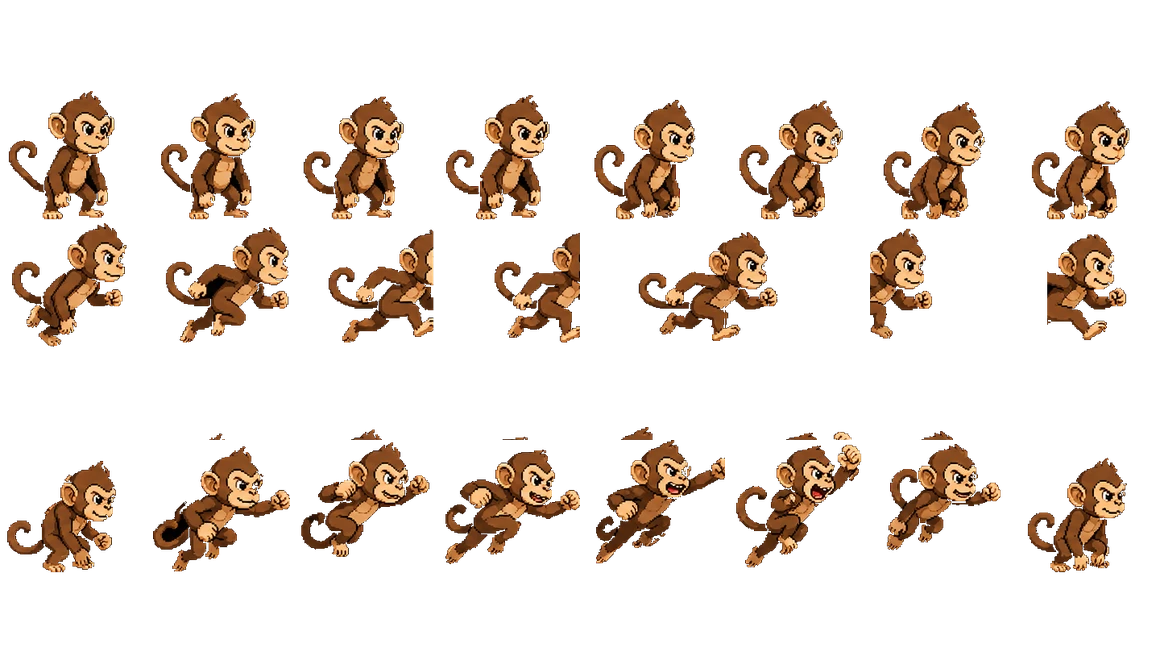
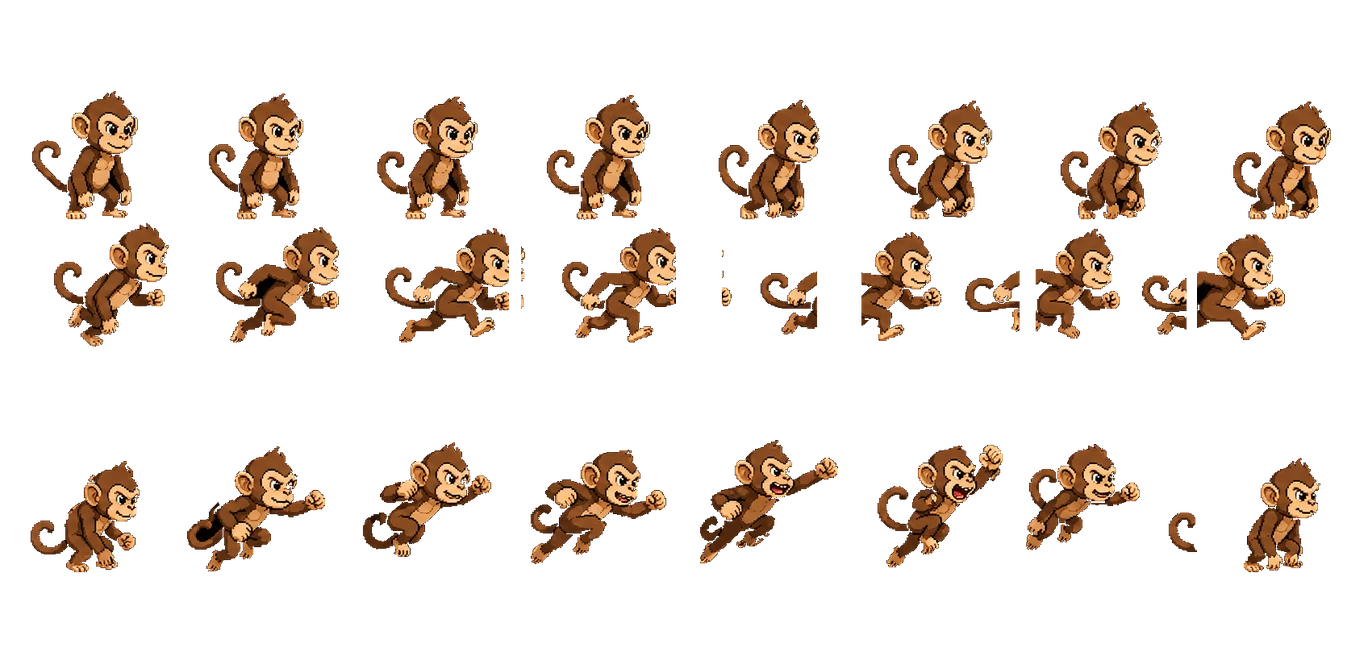
feat(zoo): 시곗바늘 HUD, 최소 관람객 1명, 잘리지 않은 동물 시트
- 동물 시트를 새 추출 방식으로 다시 뽑았다. 악어 꼬리와 제비 꽁지, 호랑이 꼬리가
  온전하고 이웃 조각도 섞이지 않는다
- 동물이 있는 우리에는 최소 한 명이 온다. 밤 배율이 0.15 라 명성이 낮으면
  반올림해서 0 이 되고, 그러면 그 시간대에는 수입이 통째로 끊겼다.
  하루의 3분의 1 을 아무 일도 없는 시간으로 두면 화면을 볼 이유가 없어진다
- HUD 시각을 숫자에서 시곗바늘로 바꿨다. 숫자는 읽어서 해석해야 하지만
  바늘은 한눈에 지금이 어디쯤인지 보여 준다. 12시간 시계가 아니라 한 바퀴가 곧 하루다

시계는 지금 캔버스로 그린다. GUI 시트에 문자판이 들어오면 배경만 그 스프라이트로
바꾸면 된다 — 바늘은 그대로 얹는다.

diff --git a/src/assets/animalSheets.ts b/src/assets/animalSheets.ts
@@ -38,26 +38,26 @@ export interface AnimalSheetAsset {
 }
 
 export const ANIMAL_SHEETS: readonly AnimalSheetAsset[] = [
-  { id: 'ALIGATOR', habitat: 'WATER', src: sheet0, fit: 0.3429, baseline: 1.0, frameW: 180, frameH: 210 },
-  { id: 'BELUGA', habitat: 'WATER', src: sheet1, fit: 0.2989, baseline: 1.0, frameW: 146, frameH: 220 },
-  { id: 'MARLIN', habitat: 'WATER', src: sheet2, fit: 0.4626, baseline: 1.0, frameW: 174, frameH: 220 },
-  { id: 'PENGUIN', habitat: 'WATER', src: sheet3, fit: 0.4412, baseline: 1.0, frameW: 171, frameH: 204 },
-  { id: 'PIRANHA', habitat: 'WATER', src: sheet4, fit: 0.5023, baseline: 1.0, frameW: 180, frameH: 215 },
-  { id: 'SHARK', habitat: 'WATER', src: sheet5, fit: 0.5072, baseline: 1.0, frameW: 180, frameH: 207 },
-  { id: 'TURTLE', habitat: 'WATER', src: sheet6, fit: 0.4226, baseline: 1.0, frameW: 165, frameH: 220 },
-  { id: 'BEAR', habitat: 'LAND', src: sheet7, fit: 0.5792, baseline: 1.0, frameW: 165, frameH: 220 },
-  { id: 'HORSE', habitat: 'LAND', src: sheet8, fit: 0.7, baseline: 1.0, frameW: 158, frameH: 220 },
-  { id: 'MONKEY', habitat: 'LAND', src: sheet9, fit: 0.5861, baseline: 1.0, frameW: 145, frameH: 220 },
-  { id: 'ORANGUTAN', habitat: 'LAND', src: sheet10, fit: 0.6122, baseline: 1.0, frameW: 162, frameH: 220 },
-  { id: 'POLARBEAR', habitat: 'LAND', src: sheet11, fit: 0.4938, baseline: 1.0, frameW: 163, frameH: 220 },
-  { id: 'RABBIT', habitat: 'LAND', src: sheet12, fit: 0.7176, baseline: 1.0, frameW: 155, frameH: 220 },
-  { id: 'TIGGER', habitat: 'LAND', src: sheet13, fit: 0.5022, baseline: 1.0, frameW: 174, frameH: 220 },
-  { id: 'BUTTERFLY', habitat: 'SKY', src: sheet14, fit: 0.6849, baseline: 1.0, frameW: 149, frameH: 220 },
-  { id: 'CHICKEN', habitat: 'SKY', src: sheet15, fit: 0.7227, baseline: 1.0, frameW: 155, frameH: 220 },
-  { id: 'CROW', habitat: 'SKY', src: sheet16, fit: 0.8622, baseline: 1.0, frameW: 176, frameH: 220 },
-  { id: 'DRAGONFLY', habitat: 'SKY', src: sheet17, fit: 0.7514, baseline: 1.0, frameW: 176, frameH: 181 },
-  { id: 'PARROT', habitat: 'SKY', src: sheet18, fit: 0.8221, baseline: 1.0, frameW: 179, frameH: 208 },
-  { id: 'PEACOCK', habitat: 'SKY', src: sheet19, fit: 0.6667, baseline: 1.0, frameW: 150, frameH: 220 },
-  { id: 'PIGEON', habitat: 'SKY', src: sheet20, fit: 0.5914, baseline: 1.0, frameW: 137, frameH: 220 },
-  { id: 'SPAROW', habitat: 'SKY', src: sheet21, fit: 0.6653, baseline: 1.0, frameW: 151, frameH: 220 },
+  { id: 'ALIGATOR', habitat: 'WATER', src: sheet0, fit: 0.3429, baseline: 1.0, frameW: 211, frameH: 210 },
+  { id: 'BELUGA', habitat: 'WATER', src: sheet1, fit: 0.2989, baseline: 1.0, frameW: 155, frameH: 220 },
+  { id: 'MARLIN', habitat: 'WATER', src: sheet2, fit: 0.4626, baseline: 1.0, frameW: 214, frameH: 220 },
+  { id: 'PENGUIN', habitat: 'WATER', src: sheet3, fit: 0.4663, baseline: 1.0, frameW: 167, frameH: 193 },
+  { id: 'PIRANHA', habitat: 'WATER', src: sheet4, fit: 0.5023, baseline: 1.0, frameW: 214, frameH: 215 },
+  { id: 'SHARK', habitat: 'WATER', src: sheet5, fit: 0.5072, baseline: 1.0, frameW: 196, frameH: 207 },
+  { id: 'TURTLE', habitat: 'WATER', src: sheet6, fit: 0.4226, baseline: 1.0, frameW: 169, frameH: 220 },
+  { id: 'BEAR', habitat: 'LAND', src: sheet7, fit: 0.5792, baseline: 1.0, frameW: 173, frameH: 220 },
+  { id: 'HORSE', habitat: 'LAND', src: sheet8, fit: 0.7, baseline: 1.0, frameW: 260, frameH: 220 },
+  { id: 'MONKEY', habitat: 'LAND', src: sheet9, fit: 0.5861, baseline: 1.0, frameW: 171, frameH: 220 },
+  { id: 'ORANGUTAN', habitat: 'LAND', src: sheet10, fit: 0.6122, baseline: 1.0, frameW: 172, frameH: 220 },
+  { id: 'POLARBEAR', habitat: 'LAND', src: sheet11, fit: 0.4938, baseline: 1.0, frameW: 181, frameH: 220 },
+  { id: 'RABBIT', habitat: 'LAND', src: sheet12, fit: 0.7176, baseline: 1.0, frameW: 175, frameH: 220 },
+  { id: 'TIGGER', habitat: 'LAND', src: sheet13, fit: 0.5022, baseline: 1.0, frameW: 208, frameH: 220 },
+  { id: 'BUTTERFLY', habitat: 'SKY', src: sheet14, fit: 0.6849, baseline: 1.0, frameW: 142, frameH: 220 },
+  { id: 'CHICKEN', habitat: 'SKY', src: sheet15, fit: 0.7227, baseline: 1.0, frameW: 184, frameH: 220 },
+  { id: 'CROW', habitat: 'SKY', src: sheet16, fit: 0.8622, baseline: 1.0, frameW: 204, frameH: 220 },
+  { id: 'DRAGONFLY', habitat: 'SKY', src: sheet17, fit: 0.7514, baseline: 1.0, frameW: 177, frameH: 181 },
+  { id: 'PARROT', habitat: 'SKY', src: sheet18, fit: 0.8221, baseline: 1.0, frameW: 188, frameH: 208 },
+  { id: 'PEACOCK', habitat: 'SKY', src: sheet19, fit: 0.6667, baseline: 1.0, frameW: 181, frameH: 220 },
+  { id: 'PIGEON', habitat: 'SKY', src: sheet20, fit: 0.5914, baseline: 1.0, frameW: 130, frameH: 220 },
+  { id: 'SPAROW', habitat: 'SKY', src: sheet21, fit: 0.6653, baseline: 1.0, frameW: 154, frameH: 220 },
 ]

diff --git a/src/ui/components/ClockDial.tsx b/src/ui/components/ClockDial.tsx
@@ -1,0 +1,82 @@
+import { useEffect, useRef } from 'react'
+import { CLOSE_HOUR, OPEN_HOUR } from '@/domain/clock'
+import { DAY_DURATION_SEC } from '@/domain/balance'
+
+interface ClockDialProps {
+  /** 오늘 경과 초 (0 ~ DAY_DURATION_SEC). */
+  elapsed: number
+  size?: number
+}
+
+/**
+ * 시곗바늘이 도는 시계.
+ *
+ * 숫자로 `14 00` 이라고 쓰면 읽어서 해석해야 하지만, 바늘은 **한눈에 지금이 어디쯤인지**
+ * 보여 준다. 하루가 180초뿐이라 실제로 눈에 띄게 돈다는 점도 크다.
+ *
+ * 운영 시간(09~22시)만 도므로 12시간 시계가 아니라 **한 바퀴가 곧 하루**다.
+ * 문 여는 시각이 12시 방향, 거기서 시계 방향으로 한 바퀴 돌면 문을 닫는다.
+ *
+ * 지금은 캔버스로 그린다. GUI 시트에 시계 문자판이 들어오면
+ * 이 컴포넌트의 배경만 그 스프라이트로 바꾸면 된다 — 바늘은 그대로 얹는다.
+ */
+export function ClockDial({ elapsed, size = 46 }: ClockDialProps) {
+  const canvasRef = useRef<HTMLCanvasElement>(null)
+
+  useEffect(() => {
+    const canvas = canvasRef.current
+    if (!canvas) return
+    const dpr = window.devicePixelRatio || 1
+    canvas.width = size * dpr
+    canvas.height = size * dpr
+    const ctx = canvas.getContext('2d')
+    if (!ctx) return
+
+    ctx.setTransform(dpr, 0, 0, dpr, 0, 0)
+    ctx.clearRect(0, 0, size, size)
+
+    const r = size / 2
+    const face = r * 0.86
+
+    // 문자판
+    ctx.beginPath()
+    ctx.arc(r, r, face, 0, Math.PI * 2)
+    ctx.fillStyle = '#f4e6c4'
+    ctx.fill()
+    ctx.lineWidth = Math.max(2, size * 0.055)
+    ctx.strokeStyle = '#8a5a2b'
+    ctx.stroke()
+
+    // 눈금. 운영 시간을 시간마다 하나씩 찍는다.
+    const hours = CLOSE_HOUR - OPEN_HOUR
+    ctx.strokeStyle = 'rgba(138, 90, 43, 0.55)'
+    ctx.lineWidth = Math.max(1, size * 0.03)
+    for (let i = 0; i < hours; i++) {
+      const angle = (i / hours) * Math.PI * 2 - Math.PI / 2
+      const inner = face * (i % 3 === 0 ? 0.7 : 0.82)
+      ctx.beginPath()
+      ctx.moveTo(r + Math.cos(angle) * inner, r + Math.sin(angle) * inner)
+      ctx.lineTo(r + Math.cos(angle) * face * 0.94, r + Math.sin(angle) * face * 0.94)
+      ctx.stroke()
+    }
+
+    // 바늘. 하루가 한 바퀴다.
+    const progress = Math.min(1, Math.max(0, elapsed / DAY_DURATION_SEC))
+    const angle = progress * Math.PI * 2 - Math.PI / 2
+
+    ctx.strokeStyle = '#7a2f22'
+    ctx.lineWidth = Math.max(2, size * 0.075)
+    ctx.lineCap = 'round'
+    ctx.beginPath()
+    ctx.moveTo(r, r)
+    ctx.lineTo(r + Math.cos(angle) * face * 0.66, r + Math.sin(angle) * face * 0.66)
+    ctx.stroke()
+
+    ctx.beginPath()
+    ctx.arc(r, r, Math.max(1.5, size * 0.055), 0, Math.PI * 2)
+    ctx.fillStyle = '#7a2f22'
+    ctx.fill()
+  }, [elapsed, size])
+
+  return <canvas ref={canvasRef} className="clock-dial" style={{ width: size, height: size }} />
+}

diff --git a/src/ui/screens/ZooScreen.tsx b/src/ui/screens/ZooScreen.tsx
@@ -7,7 +7,7 @@ import {
 import { audio } from '@/audio/AudioManager'
 import { startTicker } from '@/core/ticker'
 import { MAX_ANIMALS_PER_ENCLOSURE, UNLOCK_COST } from '@/domain/balance'
-import { clockLabel, phaseOf } from '@/domain/clock'
+import { phaseOf } from '@/domain/clock'
 import { ENCLOSURE_ORDER, ENCLOSURES } from '@/domain/enclosure'
 import { SceneRenderer, type EnclosureTransition } from '@/render/SceneRenderer'
 import {
@@ -19,6 +19,7 @@ import { canPlaceProp, storedProps, type OwnedProp } from '@/domain/prop'
 import { AnimalItemThumb, PropItemThumb } from '@/ui/components/ItemThumb'
 import { BarButton } from '@/ui/components/BarButton'
 import { BitmapLabel } from '@/ui/components/BitmapLabel'
+import { ClockDial } from '@/ui/components/ClockDial'
 import { IconButton } from '@/ui/components/IconButton'
 import { IconGlyph } from '@/ui/components/IconGlyph'
 import { AnimalCard } from '@/ui/panels/AnimalCard'
@@ -386,7 +387,6 @@ export function ZooScreen({ detail }: ZooScreenProps) {
     placeAnimal(state.item.animal.id, enclosure)
   }
 
-  const time = clockLabel(elapsed)
   const here = animals.filter((a) => a.status === 'PLACED' && a.enclosureId === enclosure).length
   const canPan = detail && tool === 'PAN'
 
@@ -445,7 +445,8 @@ export function ZooScreen({ detail }: ZooScreenProps) {
                 ) : (
                   <>
                     <BitmapLabel text={`DAY ${day}`} size={34} />
-                    <BitmapLabel text={`${time.hh} ${time.mm}`} size={34} />
+                    {/* 숫자는 읽어서 해석해야 하지만 바늘은 한눈에 지금이 어디쯤인지 보여 준다. */}
+                    <ClockDial elapsed={elapsed} size={46} />
                   </>
                 )}
               </div>

diff --git a/src/domain/economy.ts b/src/domain/economy.ts
@@ -4,14 +4,21 @@ import { placedIn, type Animal } from './animal'
 import {
   ANIMAL_UPKEEP_PER_DAY, DAY_DURATION_SEC, MAX_VISITORS_PER_ENCLOSURE, OVERCROWD_PENALTY,
   OVERCROWD_THRESHOLD, PHASE_END, REPUTATION_PER_APPEAL, REPUTATION_PER_VISITOR,
+  MIN_VISITORS_WITH_ANIMALS,
   STORED_UPKEEP_PER_DAY, TICKET_PRICE, VIEW_INCOME_PER_APPEAL, VISITOR_PHASE_MULTIPLIER,
 } from './balance'
 
-/** 명성과 시간대로부터 해당 우리의 동시 관람객 수를 구한다. */
+/**
+ * 명성과 시간대로부터 해당 우리의 동시 관람객 수를 구한다.
+ *
+ * 동물이 한 마리라도 있으면 **최소 한 명은 온다.** 밤에는 배율이 0.15 라
+ * 반올림하면 0 이 되는데, 그러면 그 시간대에는 수입이 통째로 끊긴다 —
+ * 하루의 3분의 1 을 아무 일도 일어나지 않는 시간으로 두면 볼 이유가 없어진다.
+ */
 export function visitorCount(reputation: number, phase: SkyPhase, hasAnimals: boolean): number {
   if (!hasAnimals) return 0
   const scaled = baseVisitors(reputation) * VISITOR_PHASE_MULTIPLIER[phase]
-  return clamp(Math.round(scaled), 0, MAX_VISITORS_PER_ENCLOSURE)
+  return clamp(Math.round(scaled), MIN_VISITORS_WITH_ANIMALS, MAX_VISITORS_PER_ENCLOSURE)
 }
 
 function baseVisitors(reputation: number): number {

diff --git a/src/domain/balance.ts b/src/domain/balance.ts
@@ -89,6 +89,14 @@ export const OVERCROWD_PENALTY = 2
 
 export const MAX_ANIMALS_PER_ENCLOSURE = 12
 export const MAX_VISITORS_PER_ENCLOSURE = 14
+/**
+ * 동물이 있는 우리의 최소 동시 관람객.
+ *
+ * 밤 배율이 0.15 라 명성이 낮으면 반올림해서 0 이 되고, 그러면 그 시간대에는
+ * 수입이 통째로 끊긴다. 하루의 3분의 1 을 아무 일도 없는 시간으로 두면
+ * 화면을 볼 이유가 없어진다. 한 명은 늘 있게 해서 기본 수입을 만든다.
+ */
+export const MIN_VISITORS_WITH_ANIMALS = 1
 
 /**
  * 한 손님이 머무는 시간(초).

diff --git a/src/styles/global.css b/src/styles/global.css
@@ -1894,3 +1894,9 @@ html, body, #root {
 }
 .rig-row:hover { transform: translateX(3px); background: rgba(120, 92, 52, 0.26); }
 .rig-row.is-drawn { box-shadow: inset 0 0 0 2px #d9a441; }
+
+/* 시곗바늘이 도는 시계. 하루가 한 바퀴다. */
+.clock-dial {
+  display: block;
+  filter: drop-shadow(0 2px 3px rgba(0, 0, 0, 0.35));
+}

diff --git a/docs/00-overview.md b/docs/00-overview.md
@@ -175,11 +175,15 @@ STATUS (운영 현황 모달)
 - 정산 팝업은 **10초 뒤 저절로 닫힌다.** 매일 뜨는 창을 매번 닫게 하면 성가시다.
   지난 기록은 운영 현황 `REPORTS` 탭에서 최근 7일까지 다시 볼 수 있다
 - **모달이 열려 있으면 시계가 멈춘다.** 그림 한 장에 몇 분이 걸리는데 그동안 하루가 가면 안 된다
-- HUD 시각은 하루 180초를 **운영 시간 09~22시** 에 매핑한다. 자정을 넘기지 않는다
-- HUD 시각은 **시 단위로 내림**. 분까지 보이면 1초에도 여러 번 바뀌어 산만하다
+- HUD 시각은 숫자가 아니라 **시곗바늘**이다. 숫자는 읽어서 해석해야 하지만
+  바늘은 한눈에 지금이 어디쯤인지 보여 준다. 하루가 180초뿐이라 실제로 눈에 띄게 돈다
+- 12시간 시계가 아니라 **한 바퀴가 곧 하루**다. 운영 시간 09~22시만 돌고 자정을 넘기지 않는다
 
 ### 4.2 손님
-- 우리별 동시 관람객 수 `= clamp(floor(reputation / 10) + 1, 0, 12)`
+- 우리별 동시 관람객 수 `= clamp(round((floor(reputation / 10) + 1) x 시간대배율), 1, 14)`
+- **동물이 있으면 최소 한 명은 온다.** 밤 배율이 0.15 라 명성이 낮으면 반올림해서 0 이 되고,
+  그러면 그 시간대에는 수입이 통째로 끊긴다 — 하루의 3분의 1 을 아무 일도 없는 시간으로
+  두면 화면을 볼 이유가 없어진다
 - 시간대 배율: 낮 `×1.0` / 저녁 `×0.6` / 밤 `×0.15`
 - 손님은 펜스 뒤에서 좌우로 느리게 이동하거나 멈춰 서서 관람 (뒷모습 1프레임 + 절차적 보빙)
 - 목표 인원을 정원이 아니라 **입장 간격**으로 쓴다 (`간격 = 평균 체류 / 목표`).
